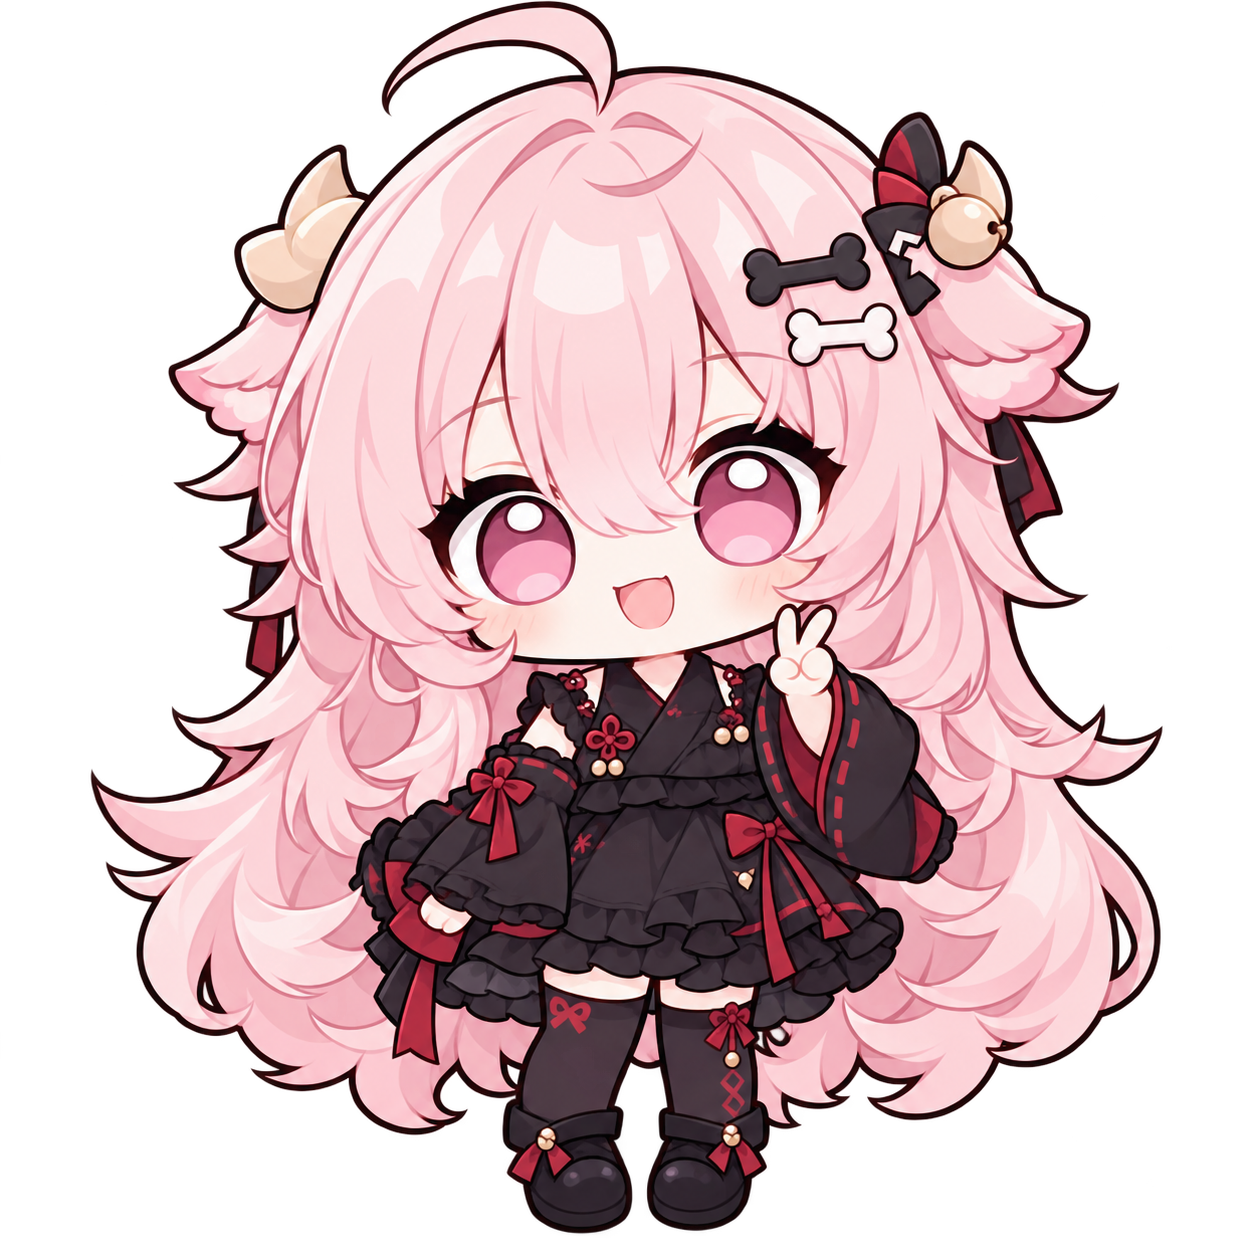
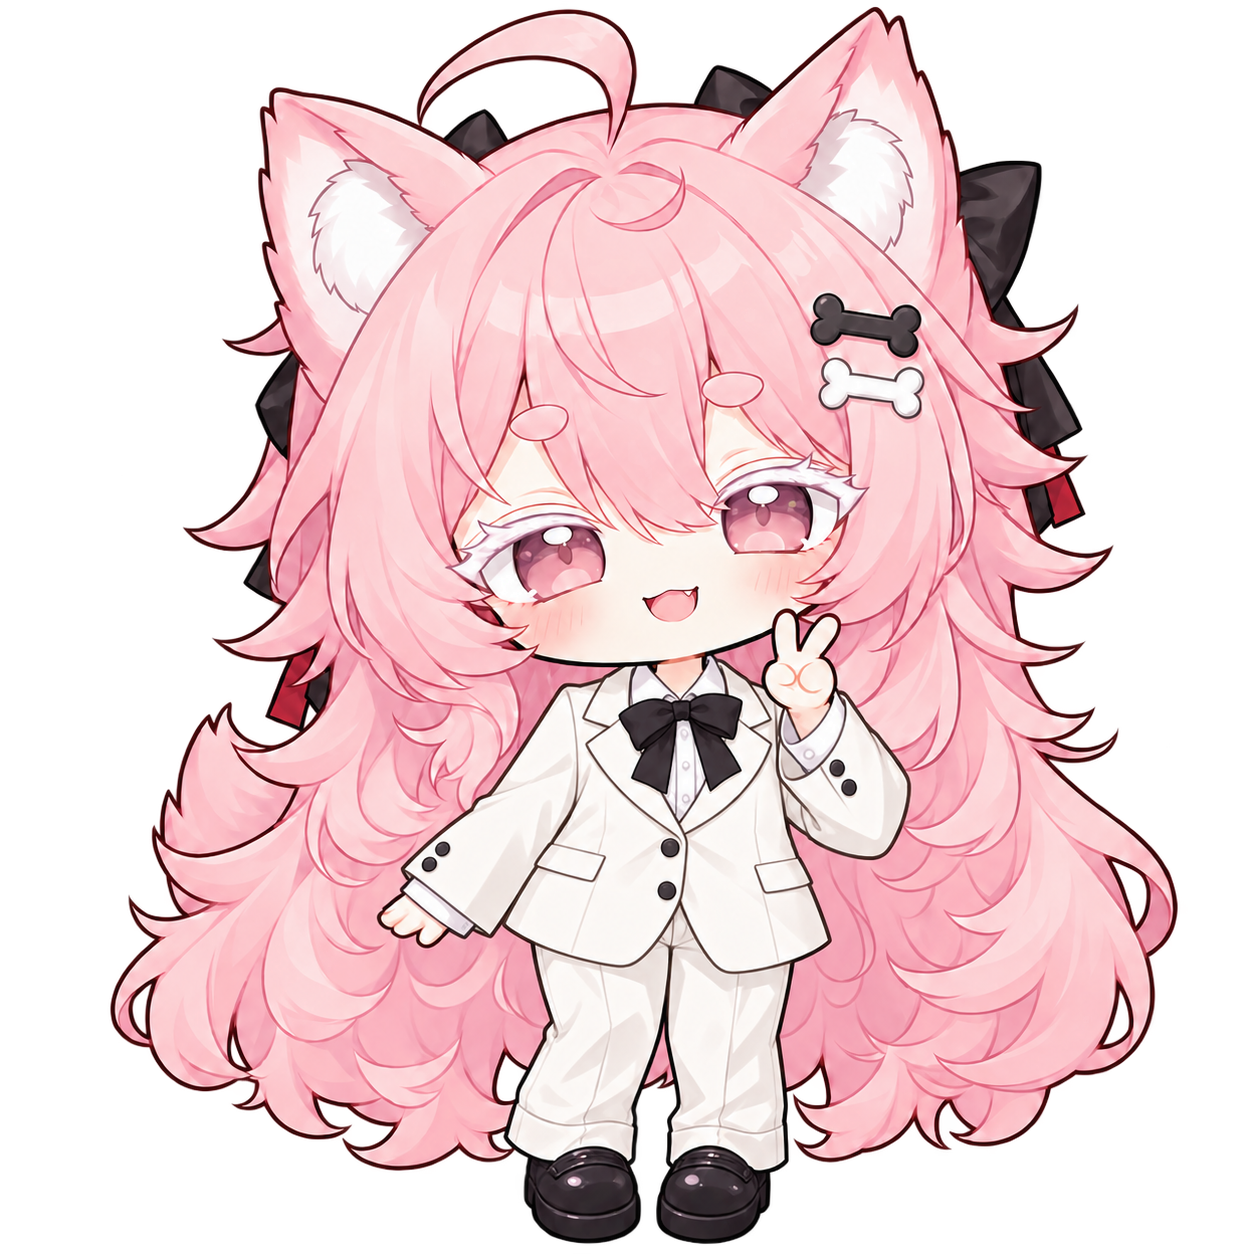
fix: redraw Cream mascot and remove carousel input delay

diff --git a/src/config/recordSync.ts b/src/config/recordSync.ts
@@ -1,6 +1,6 @@
 // Generated by scripts/sync-records.mjs. Do not edit by hand.
 export const gitActivityByDate: Record<string, number> = {
-	"2026-10-02": 3,
+	"2026-10-02": 4,
 	"2026-10-01": 17,
 	"2026-09-30": 13,
 	"2026-09-29": 15,
@@ -242,6 +242,16 @@ export const generatedChangelogEntries: Array<{
 	changes: string[];
 	related: string[];
 }> = [
+	{
+		version: "git-a816e0f8",
+		date: "2026-10-02",
+		time: "18:26",
+		type: "feature",
+		title: "add four vtuber chibi companions to footer",
+		summary: "提交 a816e0f8：add four vtuber chibi companions to footer",
+		changes: ["由 Git 提交自动记录，详细改动请查看对应提交。"],
+		related: ["git-13af57ad"],
+	},
 	{
 		version: "git-13af57ad",
 		date: "2026-10-02",

diff --git a/src/config/recordConfig.ts b/src/config/recordConfig.ts
@@ -21,6 +21,18 @@ export interface RecordApp {
 
 const manualChangelogEntries: ChangelogEntry[] = [
 	{
+		version: "v6.14.122",
+		date: "2026-10-02",
+		time: "18:44",
+		type: "optimize",
+		title: "奶油猫耳 Q 图重绘与相册即时切换",
+		summary:
+			"按指定形象重绘奶油，保留粉色猫耳与白色睫毛，去掉眼镜，改穿白色西装和黑色蝴蝶结。",
+		changes: [
+			"相册左右按钮按下即平滑移动，缩短缓动起步并柔和收尾；保留长按、连续点击、键盘及减少动态效果支持。",
+		],
+	},
+	{
 		version: "v6.14.121",
 		date: "2026-10-02",
 		time: "18:12",

diff --git a/src/assets/images/footer-mascots/SOURCE.md b/src/assets/images/footer-mascots/SOURCE.md
@@ -85,3 +85,43 @@ Primary request: draw a new fan-art chibi of 奶油-cream-. Preserve Image 3's f
 ```text
 Primary request: draw a new fan-art chibi of 雫るる_Official / Shizuku Lulu. Preserve Image 3's long straight silver-white hair, neat bangs, bright blue-turquoise eyes, blue/purple butterfly clips on either side. Simplify her recognizable modern aqua-teal oversized jacket with lavender inner lining, white high-neck hoodie and black belt into a cute fully clothed compact outfit: aqua jacket, white hoodie, white pleated skirt, opaque white knee socks and small white shoes. Friendly smile and one tiny hand raised in her signature salute near her forehead. Butterfly clips and teal jacket readable at about 100px tall. No background, text, labels, scenery or extra objects.
 ```
+
+## Cream replacement on 2026-10-02
+
+The user supplied a preferred livestream still (codex-clipboard-d713e3fd-5d1c-4cd6-88d7-c3350a0e7e74.jpg) and clarified the white eyelashes and white suit with a black bow tie. The current `cream.png` replaces the earlier horned black/red-dress version above. Other companions are unchanged. The original livestream screenshot is a reference only and is not shipped.
+
+Built-in image_gen generated the cat-ear version, then made two targeted edits for white eyelashes and the white suit, preserving transparent alpha throughout. These are generated fan-art assets, not official illustrations. Final workspace file: `src/assets/images/footer-mascots/cream.png`.
+
+### Cat-ear base prompt
+
+```text
+Use case: stylized-concept
+Asset type: transparent personal-blog footer chibi fan-art companion replacing the previous 奶油-cream- illustration.
+Input images: Image 1 is the user's preferred CHARACTER IDENTITY reference. Image 2 is the existing chibi for STYLE, compact full-body composition and fully clothed black/red outfit only; do NOT preserve its horns or wide-open eye shape. Image 3 is an existing footer companion for the clean cute STYLE and tiny body proportions only.
+Primary request: redraw 奶油-cream- in the preferred pink CAT-GIRL version from Image 1, without any glasses. Preserve her fluffy long pastel-pink layered hair, curved forelock, two large upright triangular pink CAT EARS with white inner fur, black ribbon bows behind the ears, and two stacked bone hairclips (black above white) on one side. Absolutely NO horns.
+Eyes are especially important: large readable chibi eyes with the relaxed slightly half-lidded gentle mischievous gaze from Image 1, muted dusty rose / mauve-gray irises, dark pupils, small glossy highlights, soft pink upper eyelids and fine dark lashes. Both eyes unobstructed and clearly visible; no eyeglasses, frames, lenses, eye-covering strands or sunglasses. Tiny playful cat-like smile and subtle blush.
+Style: polished 2D anime chibi, about two heads tall, oversized round head, tiny fully clothed body and short limbs, soft cel shading and rounded dark-brown outlines to match existing footer companions. Retain the compact black ruffled dress, little red ribbon accents, opaque black stockings and black boots from Image 2, one tiny hand making a V sign.
+Composition: exactly one centered standing full-body character on a square canvas; entire cat ears, hair, limbs and feet visible, about 92% of canvas height, minimal transparent margins. Genuine alpha transparency around the character.
+Avoid: glasses of any kind, horns, other characters, plush toys, food, stream/chat UI, text, captions, logo, watermark, floor, scenery, colored background, sticker border, drop shadow, realistic proportions, exposed torso.
+```
+
+### White-eyelash correction prompt
+
+```text
+Use case: precise-object-edit
+Asset type: transparent blog-footer chibi mascot.
+Image 1 is the EDIT TARGET. Image 2 is the user's identity reference showing her white eyelashes.
+Primary request: correct ONLY the eye/eyelash area of Image 1: the 奶油-cream- character's upper eyelashes and lash fringe are WHITE, not dark brown or black. Recolor the heavy dark upper lash bands and their lash tips to a soft opaque ivory-white with only a thin light mauve contour for readability, matching Image 2. Both eyes have visibly white upper eyelashes, including the outer lashes. Retain the relaxed slightly half-lidded gentle playful gaze, muted dusty rose/mauve irises, dark pupils, highlights and pale pink eyelids. No eyeglasses of any kind.
+Invariants: keep the full-body Q-version composition, pink cat ears with white inner fur, pink hairstyle, black/white bone clips, black bows, face/mouth, fully clothed black/red ruffled outfit, V-sign pose, proportions, linework, placement and genuine transparent alpha unchanged. Do not add horns, background, text or any other element. Change only the eyelashes as described.
+```
+
+### Final white-suit edit prompt
+
+```text
+Use case: precise-object-edit
+Asset type: transparent blog-footer chibi mascot.
+Image 1 is the EDIT TARGET, the corrected cat-ear and white-eyelash version of 奶油-cream-.
+Primary request: replace ONLY the clothing with a WHITE SUIT and a BLACK BOW TIE as specified by the user. A clean tailored ivory-white suit jacket with small lapels and simple dark buttons over a white collared shirt, a clearly visible black ribbon bow tie at the neck, matching white tailored trousers on the tiny short chibi legs and little polished black shoes. Keep it fully clothed, cute and readable at 104px. Keep the same raised V-sign hand pose; sleeve now part of the white suit.
+Invariants: keep the pink cat ears with white inner fur (NO horns), black ear ribbons, pink layered hairstyle and forelock, black and white bone clips, face, gentle half-lidded dusty-rose eyes, WHITE upper eyelashes and outer lash tips with light mauve contours, pupils/highlights, tiny cat-like smile and blush exactly unchanged. NO glasses. Preserve full-body two-head chibi proportions, composition, feet alignment, linework/shading and genuinely transparent background.
+Avoid: black/red gothic dress, skirt ruffles, red clothing ribbons, horns, black eyelashes, glasses, extra props or characters, floor, shadows, scene, backdrop, text or watermark. Change clothing only, not character identity.
+```
